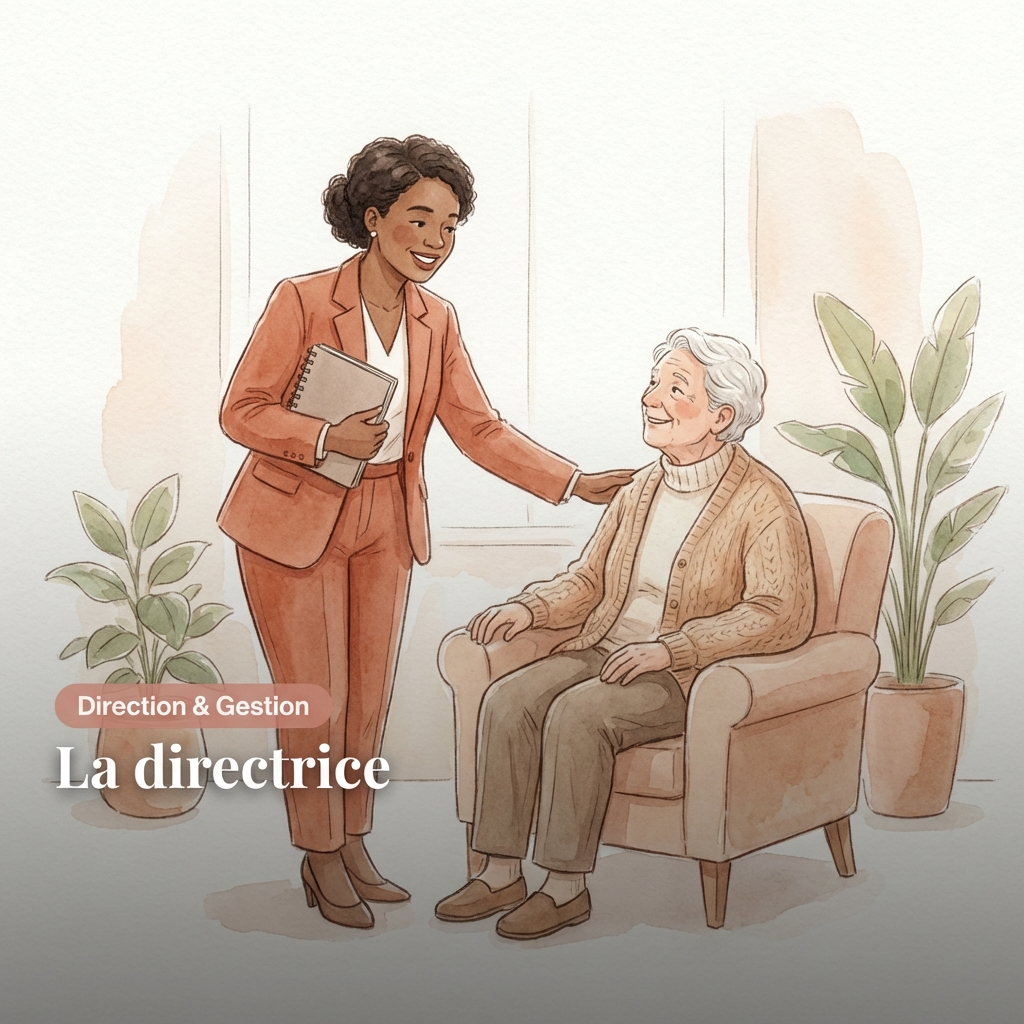
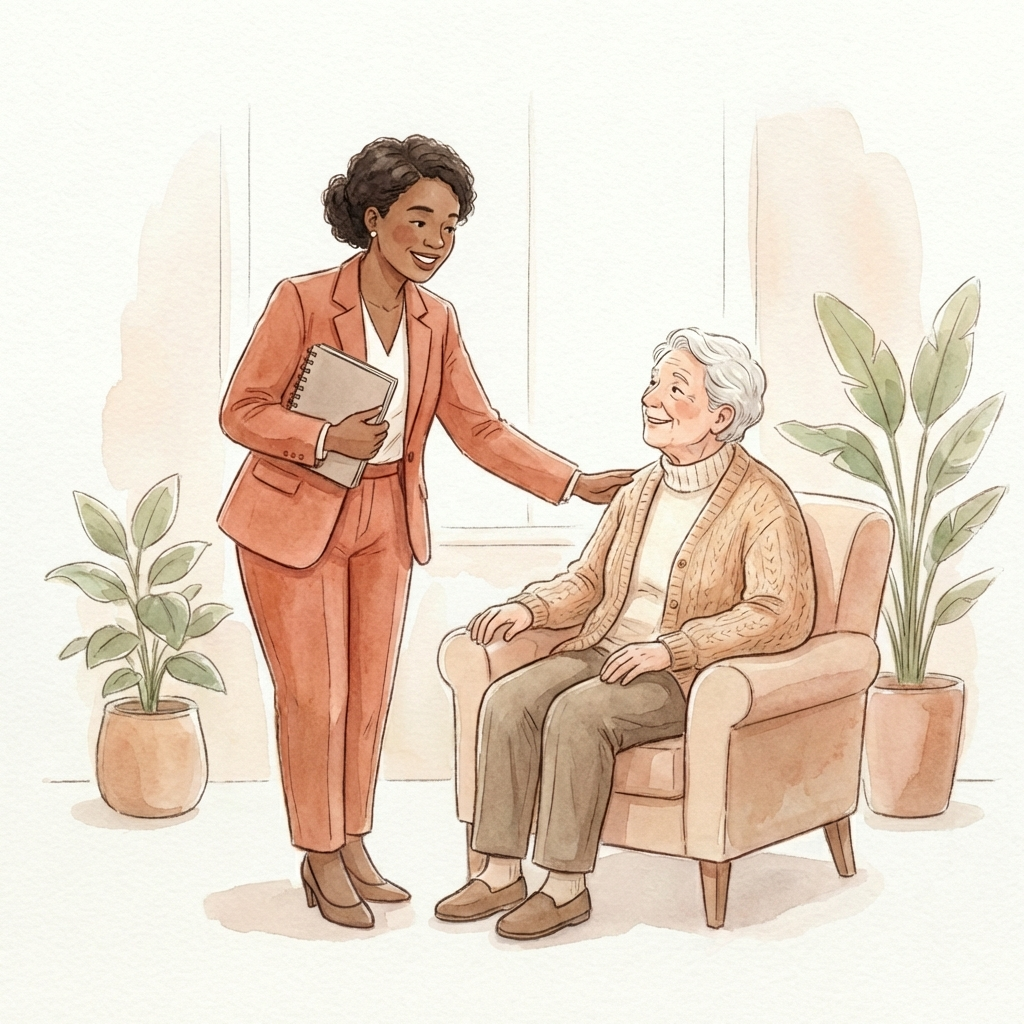
ajout tuiles texte

diff --git a/src/lib/services-data.ts b/src/lib/services-data.ts
@@ -190,4 +190,118 @@ Au-delà de ses missions d'entretien, il est présent auprès des résidents. So
         image: "/images/services/hotelier.png",
         detailImage: "/images/services/hotelier_detail.png",
     },
+    {
+        id: "rh",
+        title: "L'agent RH",
+        subtitle: "Ressources Humaines & Bien-être au travail",
+        shortDescription: "La responsable RH veille au bon climat social et à l'épanouissement de tous les collaborateurs.",
+        fullDescription: `La responsable des Ressources Humaines de l'EHPAD de Crécy joue un rôle central dans la vie de l'établissement. Elle est le point de contact privilégié pour l'ensemble des collaborateurs et veille au maintien d'un climat social serein et bienveillant.
+
+Son action s'articule autour de plusieurs missions essentielles : le recrutement de nouveaux talents, l'accompagnement des carrières, la formation continue et le développement des compétences. Elle s'assure que chaque membre de l'équipe dispose des moyens nécessaires pour exercer son métier dans les meilleures conditions.
+
+Au-delà de la gestion administrative, elle porte une attention particulière à la qualité de vie au travail. Son écoute attentive et sa disponibilité contribuent à créer un environnement où chacun se sent reconnu et valorisé.`,
+        highlights: [
+            "Formation continue",
+            "Qualité de vie au travail",
+            "Recrutement et intégration",
+            "Accompagnement des carrières",
+        ],
+        image: "/images/services/rh.png",
+        detailImage: "/images/services/rh.png",
+    },
+    {
+        id: "direction",
+        title: "La direction multisite",
+        subtitle: "Pilotage & Vision stratégique",
+        shortDescription: "La directrice multisite coordonne l'ensemble des activités avec une vision stratégique et humaine.",
+        fullDescription: `La directrice multisite de l'EHPAD de Crécy assure le pilotage stratégique de l'établissement avec une vision à la fois globale et attentive aux détails du quotidien. Elle garantit la cohérence du projet d'établissement et veille au respect des valeurs qui nous unissent.
+
+Son rôle est de coordonner l'ensemble des services, d'impulser une dynamique d'amélioration continue et de maintenir des liens étroits avec les familles, les partenaires et les autorités de tutelle. Elle est garante de la qualité de l'accompagnement proposé aux résidents.
+
+Accessible et à l'écoute, elle accorde une importance particulière à la communication avec les équipes et les familles. Sa présence régulière et son implication personnelle contribuent à maintenir un climat de confiance et de sérénité au sein de l'établissement.`,
+        highlights: [
+            "Vision stratégique",
+            "Coordination multisite",
+            "Projet d'établissement",
+            "Valeurs humaines",
+        ],
+        image: "/images/services/direction.png",
+        detailImage: "/images/services/direction.png",
+    },
+    {
+        id: "psychologue",
+        title: "La psychologue",
+        subtitle: "Écoute & Accompagnement émotionnel",
+        shortDescription: "La psychologue accompagne les résidents et leurs familles dans les moments de vie importants.",
+        fullDescription: `La psychologue de l'EHPAD de Crécy offre un espace d'écoute bienveillant et confidentiel aux résidents, à leurs familles et aux équipes. Son rôle est essentiel dans l'accompagnement des transitions et des moments de vie parfois difficiles.
+
+Elle intervient auprès des résidents pour les aider à s'adapter à leur nouvelle vie, à maintenir leur estime de soi et à traverser les épreuves du quotidien. Elle anime également des groupes de parole et des ateliers thérapeutiques favorisant le bien-être émotionnel.
+
+Auprès des familles, elle propose un soutien dans les moments de questionnement, lors de l'entrée en établissement ou face à l'évolution de l'état de santé de leur proche. Elle les aide à maintenir un lien serein et à traverser ensemble les étapes du vieillissement.`,
+        highlights: [
+            "Écoute bienveillante",
+            "Accompagnement des familles",
+            "Groupes de parole",
+            "Soutien émotionnel",
+        ],
+        image: "/images/services/psychologue.png",
+        detailImage: "/images/services/psychologue.png",
+    },
+    {
+        id: "idec",
+        title: "L'IDEC",
+        subtitle: "Coordination des Soins & Qualité",
+        shortDescription: "L'Infirmière Diplômée d'État Coordinatrice organise et supervise l'ensemble des soins.",
+        fullDescription: `L'Infirmière Diplômée d'État Coordinatrice (IDEC) de l'EHPAD de Crécy est la pierre angulaire de l'organisation des soins. Elle coordonne l'ensemble des interventions médicales et paramédicales pour garantir une prise en charge optimale de chaque résident.
+
+Son expertise lui permet d'élaborer et de suivre les protocoles de soins, de superviser les équipes infirmières et aides-soignantes, et d'assurer la liaison avec les médecins traitants et spécialistes. Elle veille à la qualité et à la continuité des soins 24h/24.
+
+L'IDEC est également l'interlocutrice privilégiée des familles pour toutes les questions relatives à la santé de leur proche. Elle organise les réunions de coordination, participe aux projets de soins personnalisés et garantit le respect des bonnes pratiques professionnelles.`,
+        highlights: [
+            "Coordination des soins",
+            "Protocoles médicaux",
+            "Liaison avec les familles",
+            "Qualité des soins",
+        ],
+        image: "/images/services/idec.png",
+        detailImage: "/images/services/idec.png",
+    },
+    {
+        id: "medecins",
+        title: "Les médecins",
+        subtitle: "Suivi Médical & Prévention",
+        shortDescription: "Les médecins assurent le suivi médical des résidents en collaboration avec leurs médecins traitants.",
+        fullDescription: `L'équipe médicale de l'EHPAD de Crécy comprend un médecin coordonnateur qui travaille en étroite collaboration avec les médecins traitants de chaque résident. Cette organisation garantit un suivi personnalisé et une continuité des soins optimale.
+
+Le médecin coordonnateur élabore le projet de soins de l'établissement, valide les admissions, et veille à la bonne application des protocoles médicaux. Il intervient également en cas d'urgence et assure la liaison avec les établissements hospitaliers de la région.
+
+Les résidents conservent bien sûr leur médecin traitant qui continue de les suivre au sein de l'établissement. Cette collaboration étroite entre médecins permet d'allier la connaissance de l'histoire médicale de chaque résident et l'expertise gériatrique nécessaire à leur accompagnement.`,
+        highlights: [
+            "Suivi personnalisé",
+            "Médecin coordonnateur",
+            "Liaison médecins traitants",
+            "Prévention et dépistage",
+        ],
+        image: "/images/services/medecins.png",
+        detailImage: "/images/services/medecins.png",
+    },
+    {
+        id: "benevoles",
+        title: "Les bénévoles",
+        subtitle: "Solidarité & Moments de partage",
+        shortDescription: "Nos bénévoles apportent leur temps et leur sourire pour créer des moments de partage et de convivialité.",
+        fullDescription: `Les bénévoles de l'EHPAD de Crécy sont des acteurs précieux de la vie sociale de l'établissement. Ils donnent de leur temps avec générosité pour apporter aux résidents des moments de partage, de convivialité et de chaleur humaine.
+
+Leurs interventions sont variées : accompagnement lors de sorties, animation d'ateliers créatifs ou de jeux de société, lectures, discussions... Ils créent des liens uniques avec les résidents, leur offrant une présence amicale et désintéressée qui enrichit leur quotidien.
+
+Formés et accompagnés par l'équipe d'animation, les bénévoles s'intègrent harmonieusement dans le projet de vie de l'établissement. Leur engagement est une source d'enrichissement mutuel : ils apportent autant qu'ils reçoivent de ces échanges intergénérationnels.`,
+        highlights: [
+            "Présence chaleureuse",
+            "Animations variées",
+            "Lien social",
+            "Accompagnement individuel",
+        ],
+        image: "/images/services/benevoles.png",
+        detailImage: "/images/services/benevoles.png",
+    },
 ];
